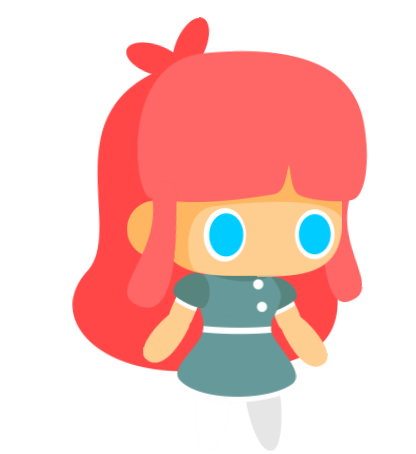
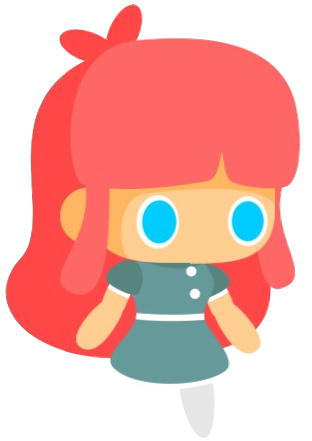
game.html

diff --git a/game.html b/game.html
@@ -63,7 +63,7 @@
           bottom: 0;
           left: 0;
           padding: 0;
-          width: 450px;
+          width: 250px;
           height: auto;
           animation: moveToCenter 3s forwards;
       }
